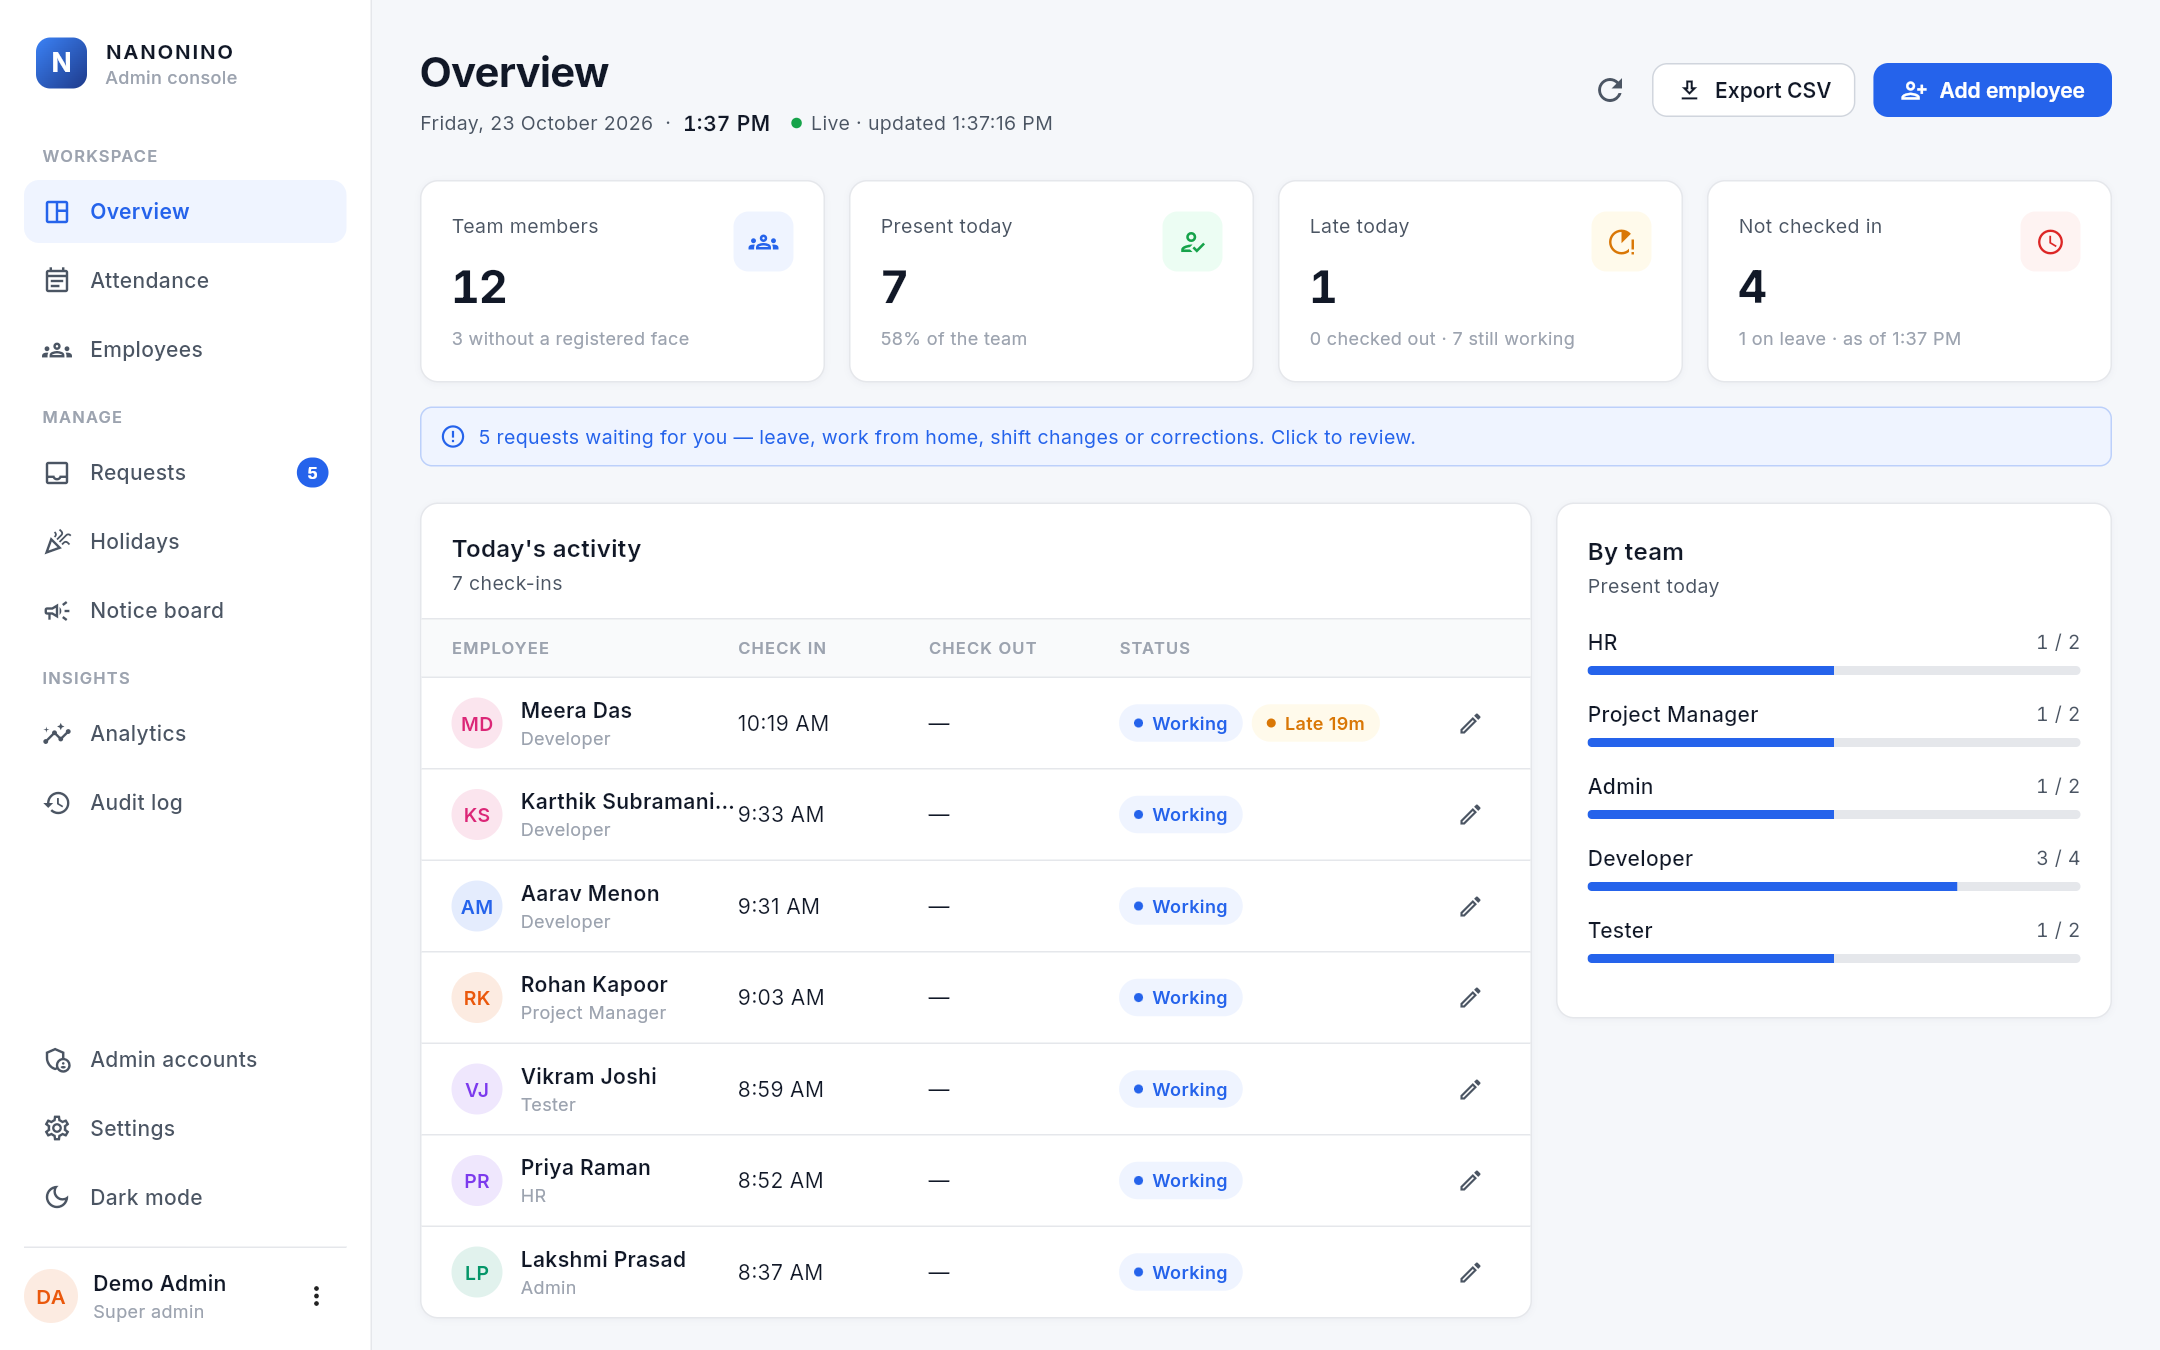
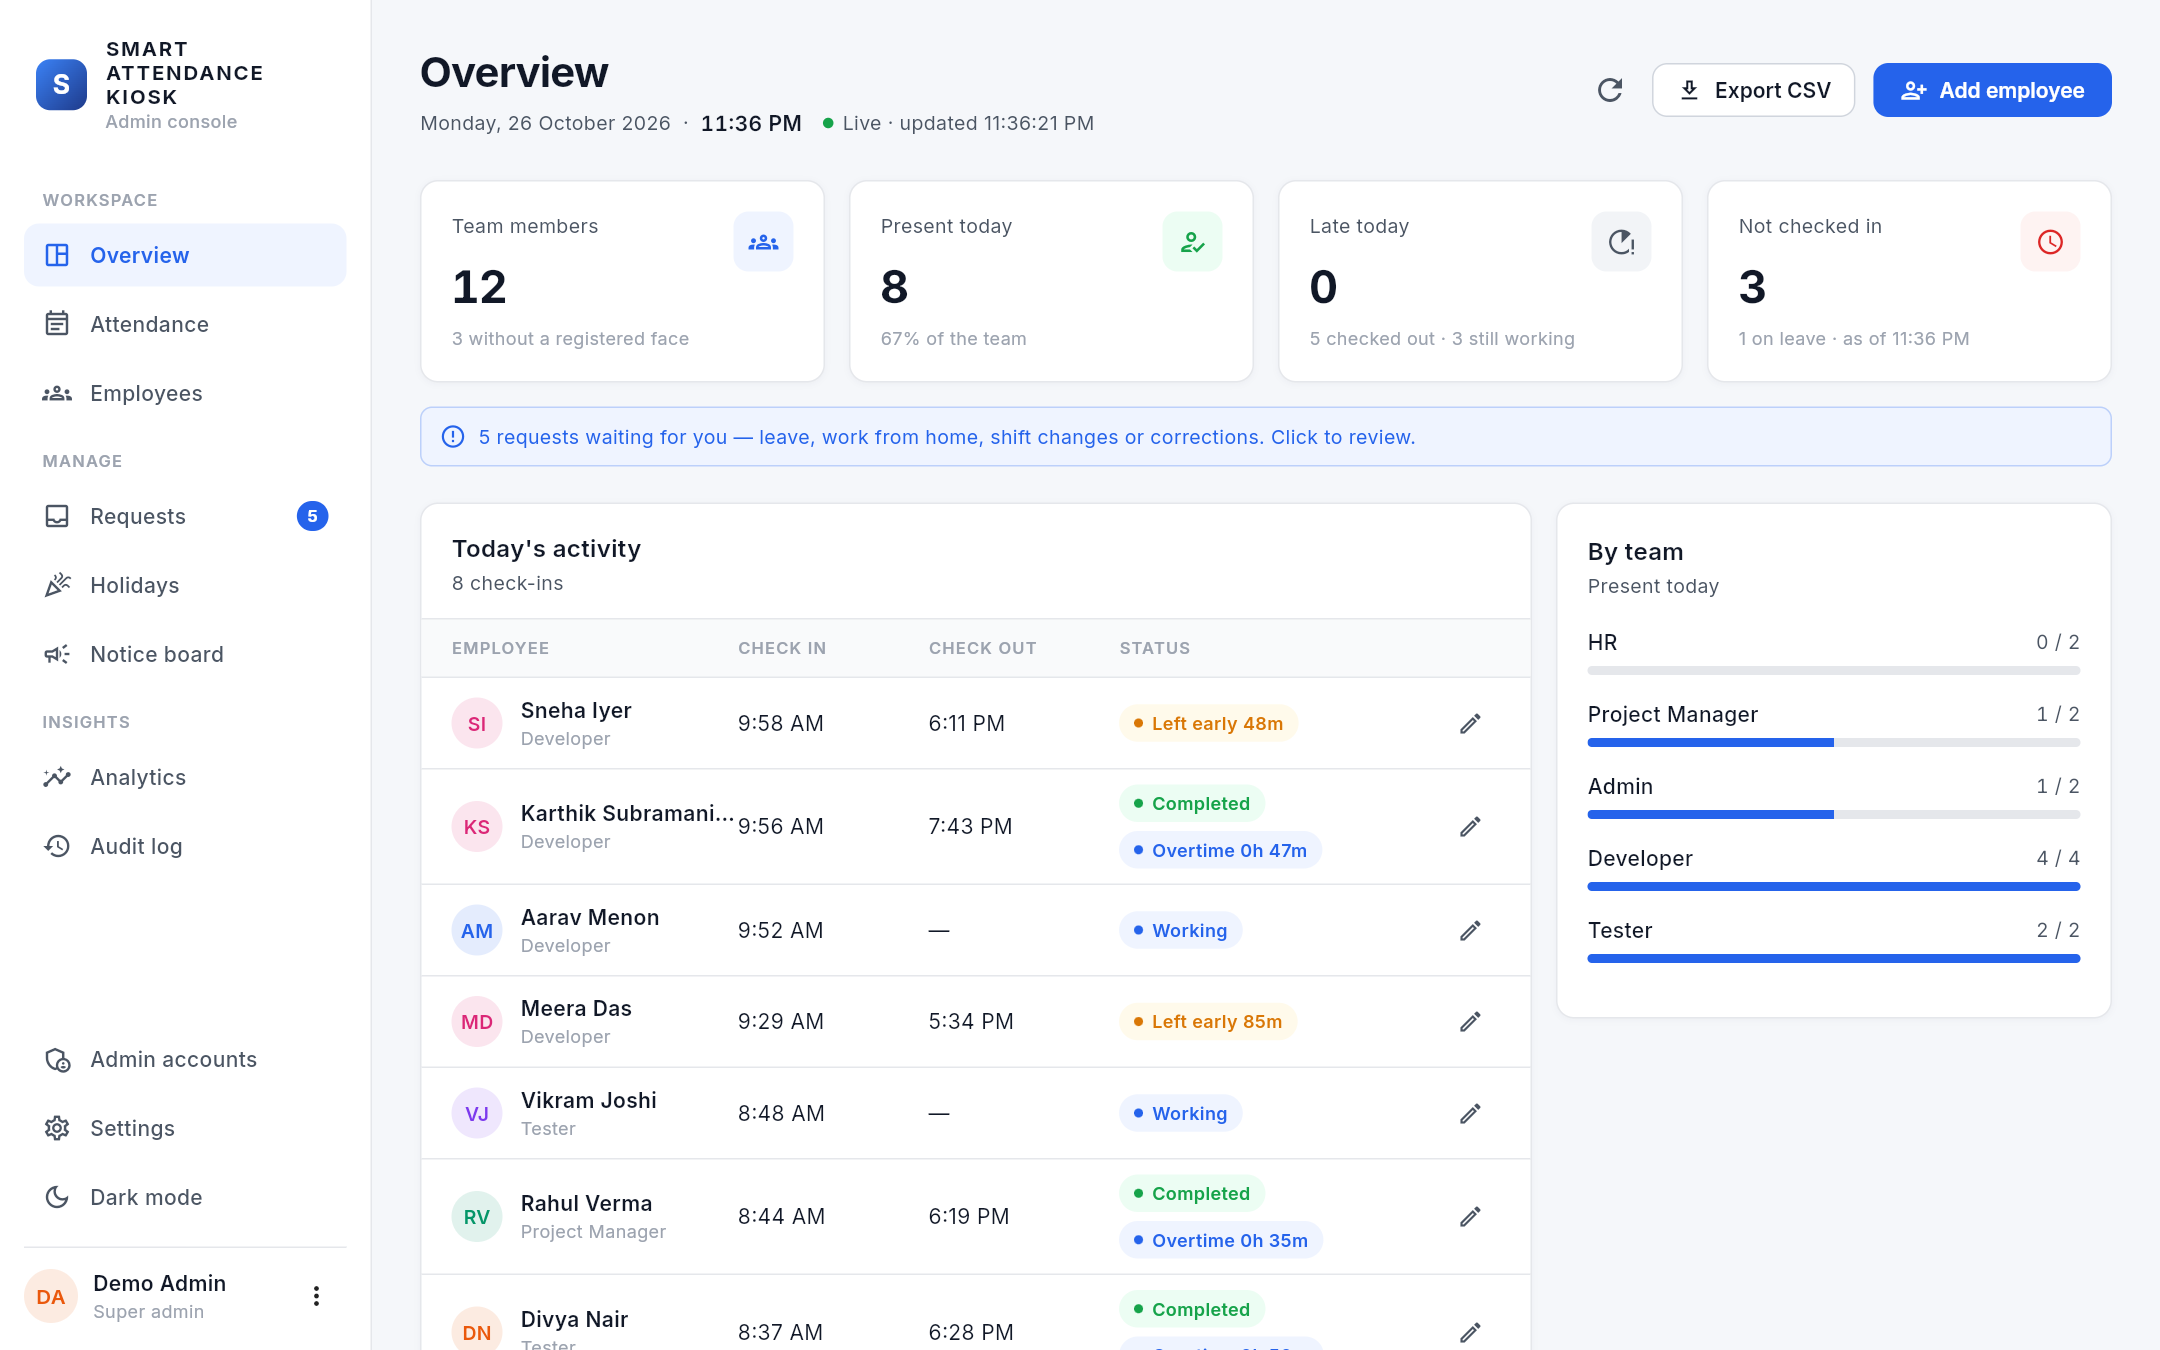
Rename NanoNino to Smart Attendance Kiosk
Visible branding, window and web titles, default company name, launcher
window titles, certificate name, README, screenshots and demo GIF. Long
names now wrap in the brand mark instead of overflowing narrow spaces.

diff --git a/technerdz_app/lib/widgets/ui.dart b/technerdz_app/lib/widgets/ui.dart
@@ -45,7 +45,7 @@ class BrandMark extends StatelessWidget {
         color: onDark ? Colors.white.withValues(alpha: 0.14) : null,
         border: onDark ? Border.all(color: Colors.white.withValues(alpha: 0.25)) : null,
       ),
-      // Monogram of the company name, e.g. "N" for NanoNino
+      // Monogram of the name, e.g. "S" for Smart Attendance Kiosk
       child: Center(
         child: ValueListenableBuilder<String>(
           valueListenable: Branding.name,
@@ -63,8 +63,14 @@ class BrandMark extends StatelessWidget {
       Column(crossAxisAlignment: CrossAxisAlignment.start, mainAxisSize: MainAxisSize.min, children: [
         ValueListenableBuilder<String>(
           valueListenable: Branding.name,
-          builder: (_, name, __) => Text(name.toUpperCase(), style: TextStyle(
-              fontSize: size * 0.4, fontWeight: FontWeight.w700, letterSpacing: 1.2, color: nameColor)),
+          // A capped width lets a long name wrap onto two lines instead of running off narrow
+          // spaces like the admin sidebar (works even where the parent gives unlimited width)
+          builder: (_, name, __) => ConstrainedBox(
+            constraints: BoxConstraints(maxWidth: size * 4.6),
+            child: Text(name.toUpperCase(), style: TextStyle(
+                fontSize: size * 0.4, fontWeight: FontWeight.w700, letterSpacing: 1.2, height: 1.2,
+                color: nameColor)),
+          ),
         ),
         if (subtitle != null)
           Text(subtitle!, style: TextStyle(fontSize: 12, color: subColor, fontWeight: FontWeight.w500)),

diff --git a/technerdz_app/lib/screens/lock_screen.dart b/technerdz_app/lib/screens/lock_screen.dart
@@ -214,7 +214,7 @@ class _LockScreenState extends State<LockScreen> with TickerProviderStateMixin {
         padding: const EdgeInsets.fromLTRB(40, 32, 40, 28),
         child: Column(children: [
           Row(crossAxisAlignment: CrossAxisAlignment.start, children: [
-            const BrandMark(size: 40, onDark: true, subtitle: 'Attendance'),
+            const BrandMark(size: 40, onDark: true, subtitle: 'Face check-in'),
             // The offline badge sits in the middle and shrinks (long translations get "...")
             Expanded(
               child: _online == false
@@ -322,7 +322,7 @@ class _LockScreenState extends State<LockScreen> with TickerProviderStateMixin {
 
   /// Shown while the server can't be reached, so nobody scans in vain.
   Widget _offlineBadge() => Tooltip(
-        message: 'Check that the NanoNino server window is open on this PC. '
+        message: 'Check that the Attendance server window is open on this PC. '
             'This clears by itself when the server is back.',
         child: Container(
           padding: const EdgeInsets.symmetric(horizontal: 16, vertical: 10),

diff --git a/technerdz_app/lib/services/voice.dart b/technerdz_app/lib/services/voice.dart
@@ -7,14 +7,14 @@ class Voice {
   static bool enabled = true;
 
   static const _script = r'Add-Type -AssemblyName System.Speech; '
-      r'$s = New-Object System.Speech.Synthesis.SpeechSynthesizer; $s.Speak($env:NANONINO_SAY)';
+      r'$s = New-Object System.Speech.Synthesis.SpeechSynthesizer; $s.Speak($env:KIOSK_SAY)';
 
   static void say(String text) {
     if (!enabled || kIsWeb || !Platform.isWindows || text.trim().isEmpty) return;
     // The text travels in an environment variable, never inside the command, so a name can't
     // break out of it. Detached: the kiosk doesn't wait for the speech to finish.
     Process.start('powershell', ['-NoProfile', '-NonInteractive', '-Command', _script],
-            environment: {'NANONINO_SAY': text}, mode: ProcessStartMode.detached)
+            environment: {'KIOSK_SAY': text}, mode: ProcessStartMode.detached)
         .then((_) {}, onError: (_) {});
   }
 }

diff --git a/technerdz_app/web/index.html b/technerdz_app/web/index.html
@@ -18,18 +18,18 @@
 
   <meta charset="UTF-8">
   <meta content="IE=Edge" http-equiv="X-UA-Compatible">
-  <meta name="description" content="NanoNino attendance — admin dashboard">
+  <meta name="description" content="Smart Attendance Kiosk — admin dashboard">
 
   <!-- iOS meta tags & icons -->
   <meta name="mobile-web-app-capable" content="yes">
   <meta name="apple-mobile-web-app-status-bar-style" content="black">
-  <meta name="apple-mobile-web-app-title" content="NanoNino">
+  <meta name="apple-mobile-web-app-title" content="Attendance">
   <link rel="apple-touch-icon" href="icons/Icon-192.png">
 
   <!-- Favicon -->
   <link rel="icon" type="image/png" href="favicon.png"/>
 
-  <title>NanoNino Attendance</title>
+  <title>Smart Attendance Kiosk</title>
   <link rel="manifest" href="manifest.json">
 </head>
 <body>

diff --git a/technerdz_app/test/widget_test.dart b/technerdz_app/test/widget_test.dart
@@ -16,7 +16,7 @@ void main() {
     await tester.pump(const Duration(milliseconds: 300));
 
     expect(find.text('Tap anywhere to check in or out'), findsOneWidget);
-    expect(find.text('NANONINO'), findsOneWidget);
+    expect(find.text('SMART ATTENDANCE KIOSK'), findsOneWidget);
     expect(find.byTooltip('Admin sign-in'), findsOneWidget);
     expect(find.textContaining('My dashboard'), findsOneWidget);
     expect(find.text('HOW TO CHECK IN'), findsNothing); // camera not open yet

diff --git a/technerdz_app/lib/screens/kiosk_screen.dart b/technerdz_app/lib/screens/kiosk_screen.dart
@@ -311,7 +311,7 @@ class _KioskScreenState extends State<KioskScreen> {
       Row(children: [
         const Expanded(
           child: Align(alignment: Alignment.centerLeft,
-              child: FittedBox(fit: BoxFit.scaleDown, child: BrandMark(size: 34, subtitle: 'Attendance kiosk'))),
+              child: FittedBox(fit: BoxFit.scaleDown, child: BrandMark(size: 34, subtitle: 'Face check-in'))),
         ),
         Tooltip(
           message: 'Back to the home screen',

diff --git a/technerdz_app/lib/theme/branding.dart b/technerdz_app/lib/theme/branding.dart
@@ -4,7 +4,7 @@ import '../services/api_service.dart';
 /// The company name shown on the lock screen, brand mark and sign-in. It comes from the
 /// server's settings (Settings → Company name), so renaming the company needs no rebuild.
 class Branding {
-  static final ValueNotifier<String> name = ValueNotifier('NanoNino');
+  static final ValueNotifier<String> name = ValueNotifier('Smart Attendance Kiosk');
 
   static Future<void> load() async {
     try {

diff --git a/technerdz_app/lib/main.dart b/technerdz_app/lib/main.dart
@@ -63,7 +63,7 @@ class _AttendanceAppState extends State<AttendanceApp> {
   @override
   Widget build(BuildContext context) {
     return MaterialApp(
-      title: 'NanoNino Attendance',
+      title: 'Smart Attendance Kiosk',
       debugShowCheckedModeBanner: false,
       theme: AppTheme.theme,
       navigatorKey: navigatorKey,

diff --git a/tests/test_kiosk.py b/tests/test_kiosk.py
@@ -217,9 +217,9 @@ def test_ear_uses_pixel_coordinates():
 
 
 def test_lock_screen_gets_the_company_name_without_signing_in(client, make_employee, login):
-    assert client.get("/kiosk/info").json()["company_name"] == "NanoNino"
+    assert client.get("/kiosk/info").json()["company_name"] == "Smart Attendance Kiosk"
     make_employee("boss", role="admin")
     s = client.get("/admin/settings", headers=login("boss")).json()
     s.pop("smtp_configured", None)
-    client.put("/admin/settings", headers=login("boss"), json={**s, "company_name": "NANONINO"})
-    assert client.get("/kiosk/info").json()["company_name"] == "NANONINO"
+    client.put("/admin/settings", headers=login("boss"), json={**s, "company_name": "Acme Corp"})
+    assert client.get("/kiosk/info").json()["company_name"] == "Acme Corp"

diff --git a/tests/test_rules_and_admin.py b/tests/test_rules_and_admin.py
@@ -207,7 +207,7 @@ def test_approved_leave_reduces_expected_days(client, make_employee, login, db_s
 # ── Settings ─────────────────────────────────────────────────────────────────
 
 def _settings(**kw):
-    base = {"company_name": "NanoNino", "work_start": "09:00", "work_end": "18:00", "grace_minutes": 15,
+    base = {"company_name": "Smart Attendance Kiosk", "work_start": "09:00", "work_end": "18:00", "grace_minutes": 15,
             "half_day_hours": 4, "weekend_days": [5, 6], "min_checkout_minutes": 5,
             "hr_emails": ["hr@example.com"], "email_enabled": True, "email_time": "19:00"}
     base.update(kw)

diff --git a/main.py b/main.py
@@ -30,7 +30,7 @@ async def lifespan(_app: FastAPI):
 
 
 app = FastAPI(
-    title="NanoNino Attendance System API",
+    title="Smart Attendance Kiosk API",
     description="Face recognition based automated attendance system",
     version="1.2.0",
     lifespan=lifespan,
@@ -71,5 +71,5 @@ if os.path.isfile(os.path.join(WEB_ADMIN_DIR, "index.html")):
 
 @app.get("/")
 def root():
-    return {"message": "NanoNino Attendance API is running",
+    return {"message": "Smart Attendance Kiosk API is running",
             "web_dashboard": "/app/" if any(getattr(r, "name", "") == "web-admin" for r in app.routes) else None}

diff --git a/tests/test_extras.py b/tests/test_extras.py
@@ -194,5 +194,5 @@ def test_register_excel_has_a_wfh_column():
                       "totals": {s: (1 if s == "wfh" else 0) for s in register.STATUSES},
                       "attendance_pct": 100.0, "worked_hours": 0, "overtime_hours": 0}]}
     import io
-    ws = load_workbook(io.BytesIO(register.to_xlsx(data, "NanoNino"))).active
+    ws = load_workbook(io.BytesIO(register.to_xlsx(data, "Smart Attendance Kiosk"))).active
     assert ws["C5"].value == "W" and ws.cell(row=4, column=7).value == "WFH"
